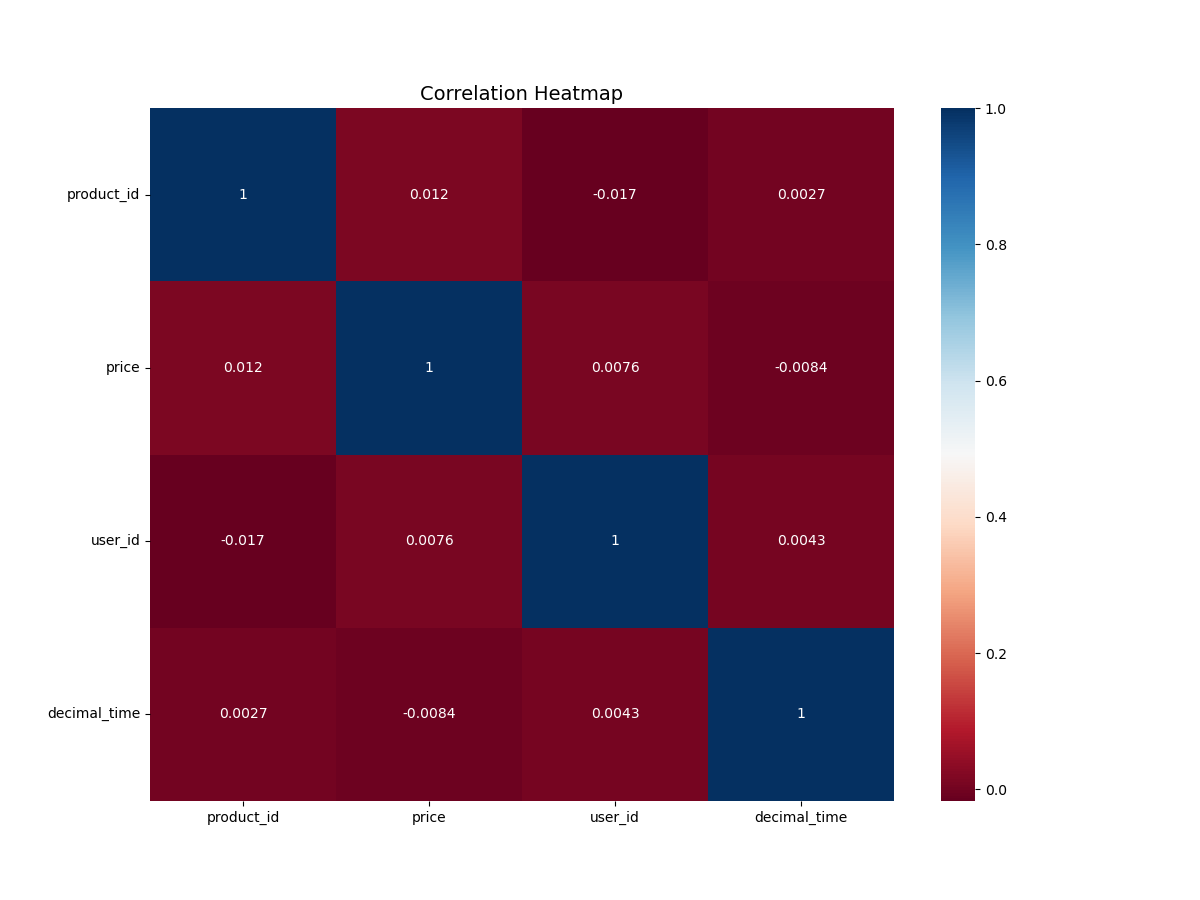
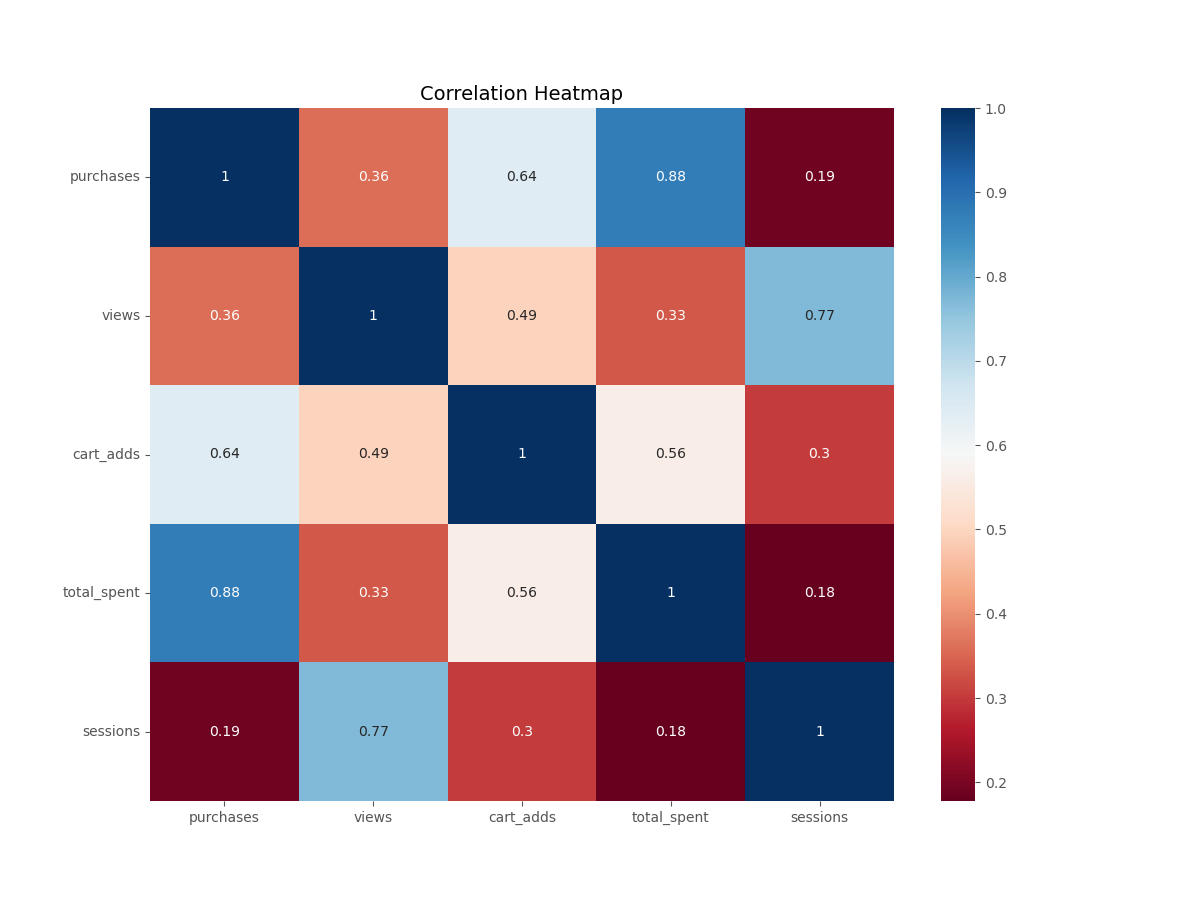
last ex

diff --git a/dataScience_02/postgres_db/chart.py b/dataScience_02/postgres_db/chart.py
@@ -1,10 +1,8 @@
 import pandas as pd
 import matplotlib.pyplot as plt
-import numpy as np
 import seaborn as sns
 from sklearn.preprocessing import StandardScaler
 from sklearn.cluster import KMeans
-from sklearn.decomposition import PCA
 
 def load(path: str) -> pd.DataFrame:
     """Load a dataset from a CSV file and print its content."""
@@ -13,11 +11,43 @@ def load(path: str) -> pd.DataFrame:
         assert isinstance(path, str), "the input must be string"
         data = pd.read_csv(path)
         print(f"Loading {path}\n")
-        # data.describe()
-        # print("data.info()\n")
-        # data.info()
-        print()
         return data
+
+    except AssertionError as msg:
+        print(f"AssertionError: {msg}")
+    except Exception as error:
+        print(f"Error: {error}")
+    return None
+
+
+def featuring_data(data: pd.DataFrame) -> pd.DataFrame:
+    """Extracts features for each customer by aggregating the data."""
+    try:
+        assert isinstance(data, pd.DataFrame), "Input must be a pandas DataFrame"
+
+        total_purchases = data[data['event_type'] == 'purchase'].groupby('user_id')['event_type'].count()
+        total_views = data[data['event_type'] == 'view'].groupby('user_id')['event_type'].count()
+        total_cart_adds = data[data['event_type'] == 'cart'].groupby('user_id')['event_type'].count()
+        total_spent = data[data['event_type'] == 'purchase'].groupby('user_id')['price'].sum()
+        total_sessions = data.groupby('user_id')['user_session'].nunique()
+
+        customer_data = pd.DataFrame({
+            'purchases': total_purchases,   # total purchases made by each customer
+            'views': total_views,           # total views made by each customer
+            'cart_adds': total_cart_adds,   # total cart additions made by each customer
+            'total_spent': total_spent,     # total amount spent by each customer
+            'sessions': total_sessions      # total sessions made by each customer
+        }).fillna(0)
+        print("Features extracted customer_data:")
+        print(customer_data.head())
+        print()
+        customer_data.describe()
+        print()
+
+        scaler = StandardScaler()
+        customer_data_scaled = scaler.fit_transform(customer_data)
+        print("Features generated and normalized.\n")
+        return pd.DataFrame(customer_data_scaled, columns=customer_data.columns)
 
     except AssertionError as msg:
         print(f"AssertionError: {msg}")
@@ -28,32 +58,54 @@ def load(path: str) -> pd.DataFrame:
 
 def kmean_clustering(data: pd.DataFrame):
     """ Perform K-means clustering on the dataset and print the results. """
+    plt.style.use('ggplot')
     try:
         assert isinstance(data, pd.DataFrame), "arg must be a dataframe"
-        print("data.head()\n", data.head())
-        plt.figure(figsize=(12,9))
-        sns.heatmap(data.corr(numeric_only=True),annot=True,cmap='RdBu')
-        plt.title('Correlation Heatmap',fontsize=14)
-        plt.yticks(rotation =0)
-        plt.savefig('corr_chart.png')
-        plt.show()
-        
-        # scaler = StandardScaler()
-        # data_scaled = scaler.fit_transform(data)
-        # data_scaled = pd.DataFrame(data_scaled, columns=data.columns)
-        
-        # wcss = []
-        # for i in range (1,11):
-        #     kmeans = KMeans(n_clusters=i,init='k-means++',random_state=42)
-        #     kmeans.fit(data_scaled)
-        #     wcss.append(kmeans.inertia_)
-        # plt.figure(figsize = (10,8))
-        # plt.plot(range(1, 11), wcss, marker = 'o', linestyle = '-.',color='red')
-        # plt.xlabel('Number of Clusters')
-        # plt.ylabel('WCSS')
-        # plt.title('K-means Clustering')
-        # plt.savefig('elbow_chart.png')
+
+        # plt.figure()
+        # sns.heatmap(data.corr(numeric_only=True),annot=True,cmap='RdBu')
+        # plt.title('Correlation Heatmap')
+        # plt.yticks(rotation =0)
+        # plt.savefig('corr_chart.png')
         # plt.show()
+
+        kmeans = KMeans(n_clusters=4, init='k-means++', n_init=10, random_state=42)
+        kmeans.fit(data)
+        print("K-means clustering completed.\n")
+
+        data_segm_kmean = data.copy()
+        data_segm_kmean = pd.DataFrame(data, columns=data.columns)
+        data_segm_kmean['Segment_K_means'] = kmeans.labels_
+        print("data_segm_kmean\n", data_segm_kmean.head())
+        print()
+
+        data_segm_analysis = data_segm_kmean.groupby(['Segment_K_means']).mean()
+        print("data_segm_analysis\n", data_segm_analysis)
+        print()
+
+        filtered_data = data_segm_kmean[(data_segm_kmean['purchases'] < 40)]
+        x_axis = filtered_data['purchases']
+        y_axis = filtered_data['total_spent']
+        plt.figure()
+        plt.scatter(x_axis, y_axis, c=filtered_data['Segment_K_means'], cmap='hsv')
+        plt.xlabel('Purchases')
+        plt.ylabel('Total Spent')
+        plt.title('Segmentation K-means')
+        plt.savefig('chart_purch_spent.png')
+        plt.show()
+        print("chart_purch_spent generated.\n")
+
+        filtered_data = data_segm_kmean[(data_segm_kmean['sessions'] < 40) & (data_segm_kmean['views'] < 100)]
+        x_axis = filtered_data['sessions']
+        y_axis = filtered_data['views']
+        plt.figure()
+        plt.scatter(x_axis, y_axis, c=filtered_data['Segment_K_means'], cmap='hsv')
+        plt.xlabel('Sessions made')
+        plt.ylabel('Views')
+        plt.title('Segmentation K-means')
+        plt.savefig('chart_session_views.png')
+        plt.show()
+        print("chart_session_views generated.\n")
 
     except AssertionError as msg:
         print(f"AssertionError: {msg}")
@@ -63,7 +115,9 @@ def kmean_clustering(data: pd.DataFrame):
 
 if __name__ == '__main__':
     data = load("out.csv")
-    kmean_clustering(data)
+    customer_data = featuring_data(data)
+    kmean_clustering(customer_data)
 
 
-# docker cp postgres:elbow_chart.png ex04 && docker cp postgres:corr_chart.png ex04
+# docker cp postgres:corr_chart.png ex05 && docker cp postgres:chart_purch_spent.png ex05 && docker cp postgres:chart_session_views.png ex05
+# docker cp postgres:chart_purch_spent.png ex05 && docker cp postgres:chart_session_views.png ex05

diff --git a/dataScience_02/ex04/elbow.py b/dataScience_02/ex04/elbow.py
@@ -1,0 +1,90 @@
+import pandas as pd
+import matplotlib.pyplot as plt
+from sklearn.preprocessing import StandardScaler
+from sklearn.cluster import KMeans
+
+def load(path: str) -> pd.DataFrame:
+    """Load a dataset from a CSV file and print its content."""
+
+    try:
+        assert isinstance(path, str), "the input must be string"
+        data = pd.read_csv(path)
+        print(f"Loading {path}\n")
+        return data
+
+    except AssertionError as msg:
+        print(f"AssertionError: {msg}")
+    except Exception as error:
+        print(f"Error: {error}")
+    return None
+
+
+def featuring_data(data: pd.DataFrame) -> pd.DataFrame:
+    """Extracts features for each customer by aggregating the data."""
+    try:
+        assert isinstance(data, pd.DataFrame), "Input must be a pandas DataFrame"
+
+        total_purchases = data[data['event_type'] == 'purchase'].groupby('user_id')['event_type'].count()
+        total_views = data[data['event_type'] == 'view'].groupby('user_id')['event_type'].count()
+        total_cart_adds = data[data['event_type'] == 'cart'].groupby('user_id')['event_type'].count()
+        total_spent = data[data['event_type'] == 'purchase'].groupby('user_id')['price'].sum()
+        total_sessions = data.groupby('user_id')['user_session'].nunique()
+
+        customer_data = pd.DataFrame({
+            'purchases': total_purchases,   # total purchases made by each customer
+            'views': total_views,           # total views made by each customer
+            'cart_adds': total_cart_adds,   # total cart additions made by each customer
+            'total_spent': total_spent,     # total amount spent by each customer
+            'sessions': total_sessions      # total sessions made by each customer
+        }).fillna(0)
+        print("Features extracted customer_data:")
+        print(customer_data.head())
+        print()
+
+        scaler = StandardScaler()
+        customer_data_scaled = scaler.fit_transform(customer_data)
+        print("Features generated and normalized.\n")
+        return pd.DataFrame(customer_data_scaled, columns=customer_data.columns)
+
+    except AssertionError as msg:
+        print(f"AssertionError: {msg}")
+    except Exception as error:
+        print(f"Error: {error}")
+    return None
+
+
+def kmean_clustering(data: pd.DataFrame):
+    """ Perform K-means clustering on the dataset and print the results. """
+    plt.style.use('ggplot')
+    try:
+        assert isinstance(data, pd.DataFrame), "arg must be a dataframe"
+
+        wcss = []
+        for i in range (1,11):
+            kmeans = KMeans(n_clusters=i,init='k-means++', n_init=10 ,random_state=42)
+            kmeans.fit(data)
+            wcss.append(kmeans.inertia_)
+        print("K-means clustering completed.\n")
+        print("wcss: ", wcss)
+
+        plt.plot(range(1, 11), wcss, marker = '+')
+        plt.title('The Elbow Method')
+        plt.xlabel('Number of Clusters')
+        plt.tick_params(length=0)
+        plt.savefig('elbow_chart.png')
+        plt.show()
+        print("Elbow plot generated.\n")
+
+    except AssertionError as msg:
+        print(f"AssertionError: {msg}")
+    except Exception as error:
+        print(f"Error: {error}")
+
+
+if __name__ == '__main__':
+    data = load("out.csv")
+    customer_data = featuring_data(data)
+    kmean_clustering(customer_data)
+
+
+# docker cp postgres:elbow_chart.png ex04

diff --git a/dataScience_02/ex04/save_csv.py b/dataScience_02/ex04/save_csv.py
@@ -51,24 +51,3 @@ if __name__ == '__main__':
     config = load_config()
     connect(config)
     export_to_csv()
-
-
-#################################################################
-
-# SELECT user_id, COUNT(*) AS purchases
-# FROM customers
-# WHERE event_type = 'purchase'
-# GROUP BY user_id
-# HAVING COUNT(*) < 100
-# ORDER BY purchases DESC
-
-
-        # SELECT 
-        #     event_type, product_id, price, user_id, user_session,
-        #     DATE(event_time) AS date, 
-        #     ROUND(EXTRACT(HOUR FROM event_time) + EXTRACT(MINUTE FROM event_time) / 60.0, 1) AS decimal_time
-        # FROM customers
-        # WHERE event_type='purchase'
-        # ORDER BY decimal_time
-
-#################################################################

diff --git a/dataScience_02/postgres_db/init_sql.py b/dataScience_02/postgres_db/init_sql.py
@@ -77,11 +77,6 @@ for f in csv_files:
     size -= 1
 sql_content += ');\n\n'
 
-# Remove duplicates
-# sql_content += 'CREATE TEMPORARY TABLE no_duplicates AS SELECT DISTINCT * FROM customers;\n'
-# sql_content += 'TRUNCATE customers;\n'
-# sql_content += 'INSERT INTO customers SELECT * FROM no_duplicates;\n\n'
-
 # # Create item table
 # sql_content += 'CREATE TABLE item (\n'
 # sql_content += '\tproduct_id INTEGER,\n'
